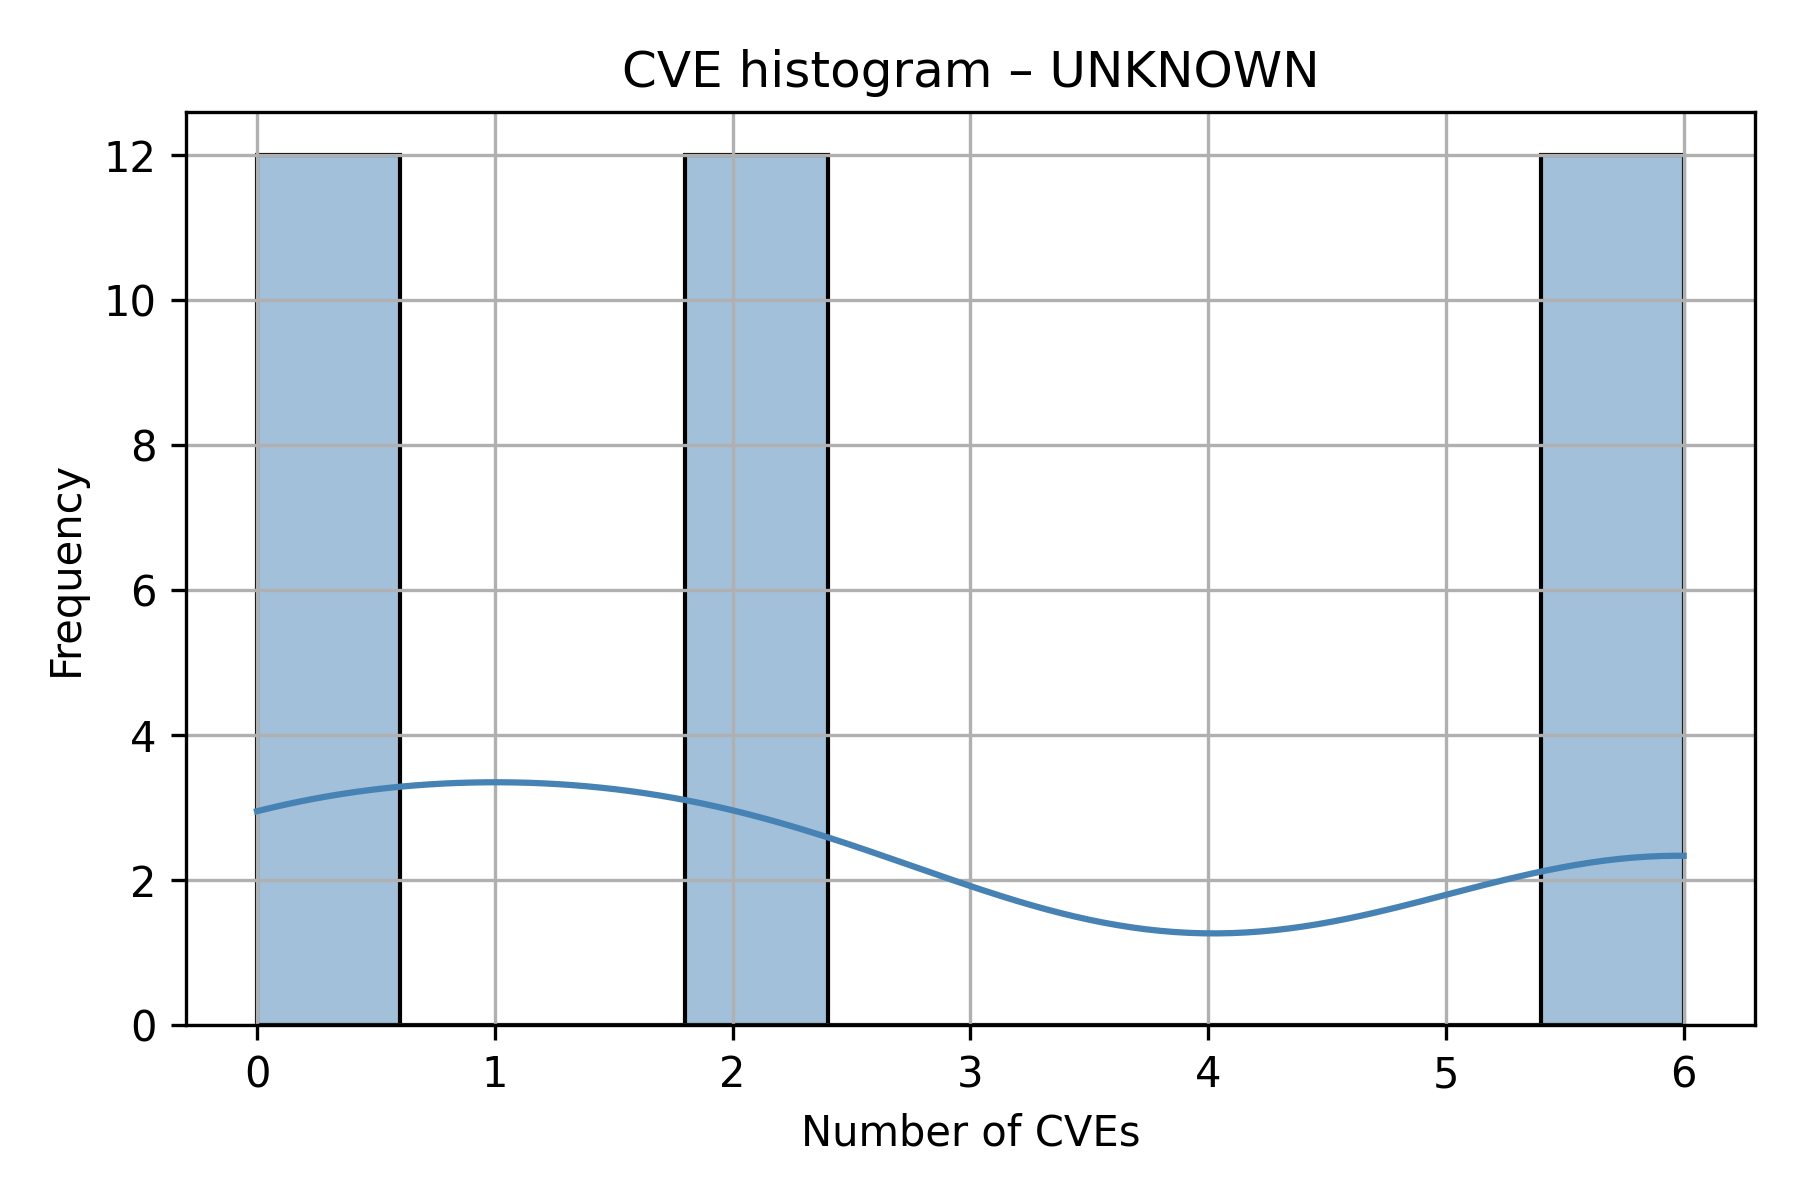
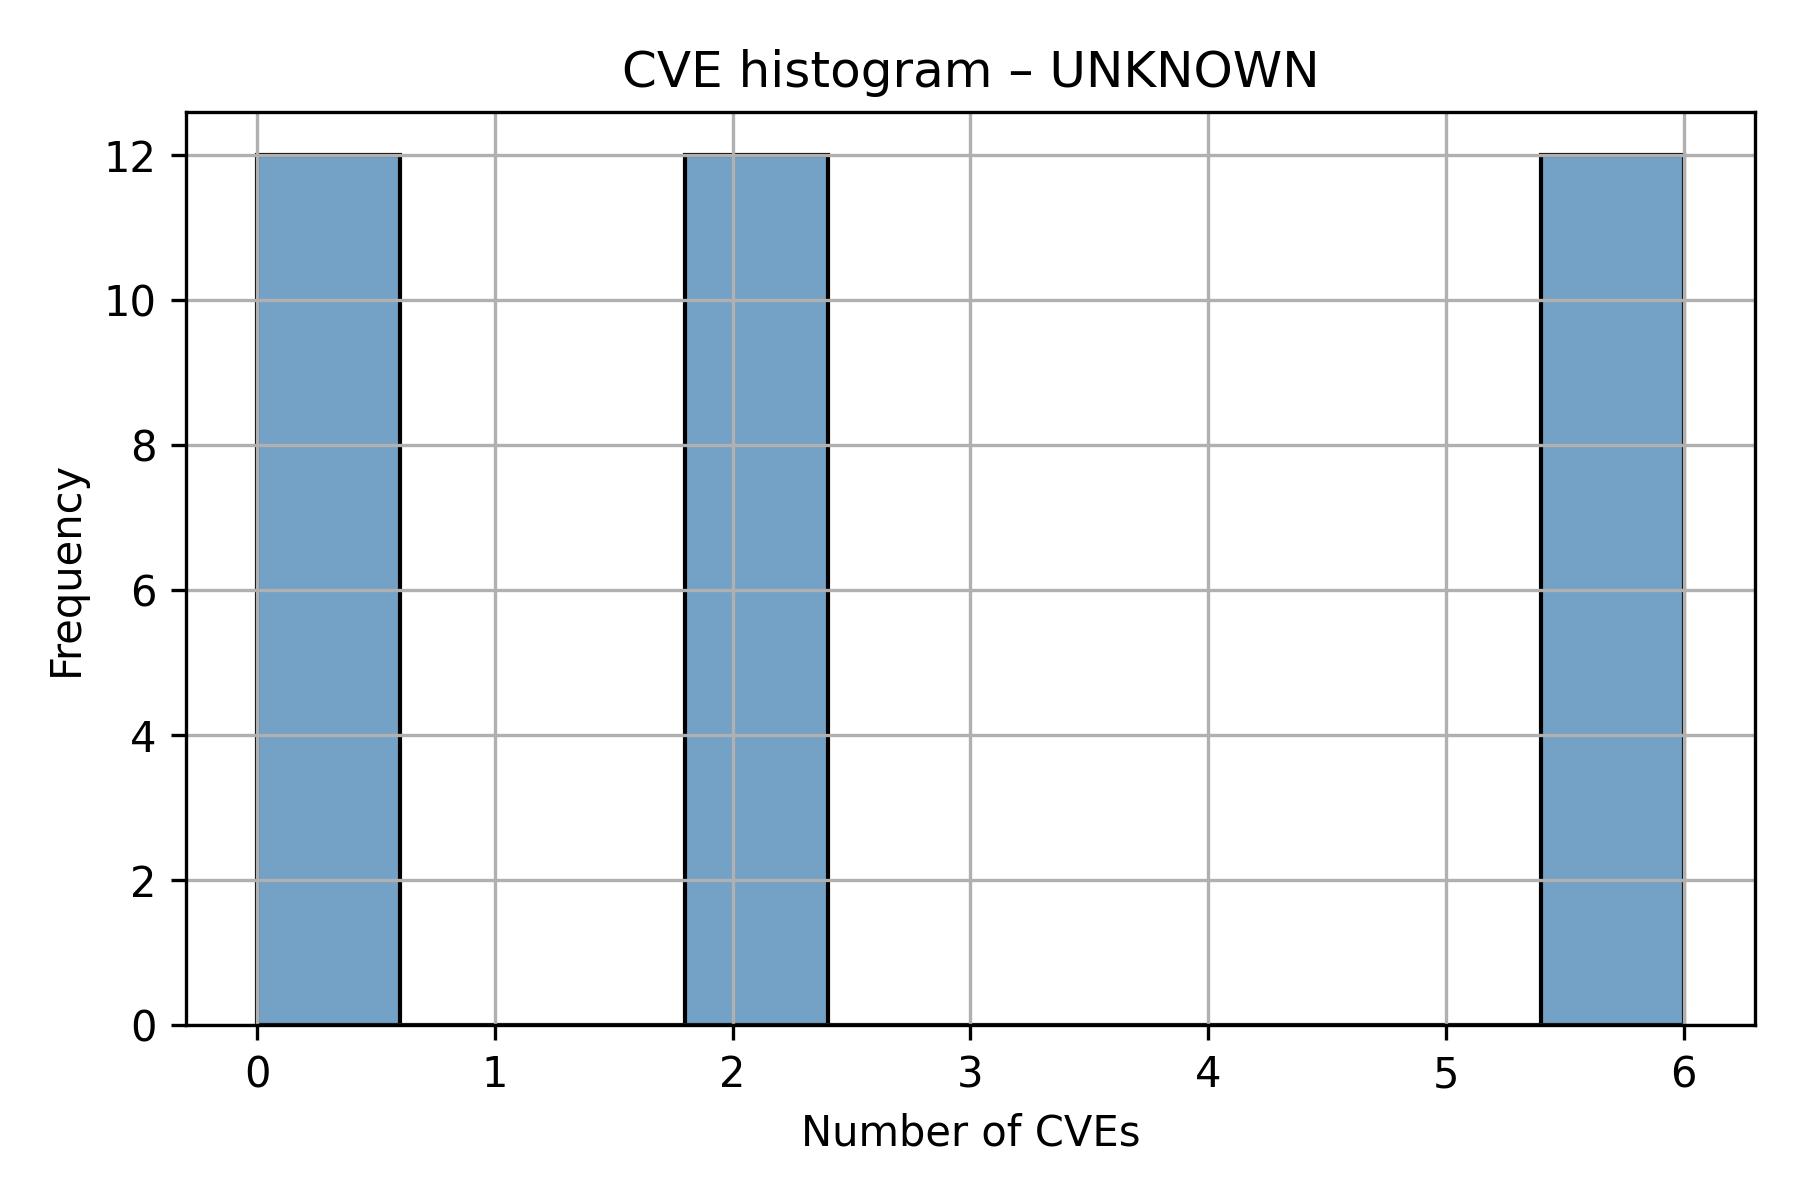
Feature: added usefull JSONs and cleaner charts

diff --git a/MC_simulation.py b/MC_simulation.py
@@ -105,11 +105,13 @@ def main() -> None:
     for p, val in zip([5, 25, 50, 75, 90, 95], percentiles):
         print(f"  {p:>2}%: {val:.2f}")
 
-    # 5. Collection of Exact Real Risk
+# 5. Collection of Estimated Risk and Final Classification
     estimated_risks_dict = {}
     summary_dir = Path("aggregated_summary")
     
-    print("\n🔍 Estimated Risk Classification of Images:")
+    risk_classifications = {} 
+    print("\n🔍 Risk Classification of Images (Relative to Simulated Distribution):")
+    
     for summary_file in summary_dir.rglob("summary.json"):
         with open(summary_file, "r") as f:
             data = json.load(f)
@@ -117,11 +119,32 @@ def main() -> None:
             estimated_risks = data.get("estimated_risk", 0.0)
             estimated_risks_dict[img_name] = estimated_risks
             
-            if estimated_risks < percentiles[0]: tag = "🔵 Extremely Safe"
-            elif estimated_risks < percentiles[3]: tag = "🟡 Moderate/Substantial"
-            elif estimated_risks < percentiles[5]: tag = "🔴 High"
-            else: tag = "❌ Critical"
-            print(f"  {img_name.ljust(20)}: {estimated_risks:.2f} ({tag})")
+            # Implementation of the 5 study categories based on percentiles:
+            # percentiles index: [0]=5%, [1]=25%, [2]=50%, [3]=75%, [4]=90%, [5]=95%
+            
+            if estimated_risks < percentiles[0]:
+                category = "Very low relative risk"
+                tag = "🔵"
+            elif estimated_risks < percentiles[1]:
+                category = "Low relative risk"
+                tag = "🟢"
+            elif estimated_risks < percentiles[3]:
+                category = "Intermediate relative risk"
+                tag = "🟡"
+            elif estimated_risks < percentiles[5]:
+                category = "High relative risk"
+                tag = "🟠"
+            else:
+                category = "Very high or critical relative risk"
+                tag = "🔴"
+            
+            risk_classifications[img_name] = category
+            
+            print(f"  {img_name.ljust(22)}: {estimated_risks:7.2f} ({tag} {category})")
+
+    # Save results to JSON for article support
+    with open("risk_classifications.json", "w", encoding="utf-8") as f:
+        json.dump(risk_classifications, f, indent=4)
 
     # 6. Generation of updated charts
     print("\n📉 Generating final charts...")
@@ -129,6 +152,10 @@ def main() -> None:
     
     Path("Plots").mkdir(exist_ok=True)
     plot_ranking_risks(estimated_risks_dict, output_path="Plots/ranking_exposure_risk.png")
+
+    sorted_risks = dict(sorted(estimated_risks_dict.items(), key=lambda item: item[1], reverse=True))
+    with open("estimated_risks_export.json", "w", encoding="utf-8") as f:
+        json.dump(sorted_risks, f, indent=4)
     
     print("✅ Monte Carlo pipeline successfully completed!")
 

diff --git a/plot_simulated_histograms.py b/plot_simulated_histograms.py
@@ -2,34 +2,50 @@ import matplotlib.pyplot as plt
 import seaborn as sns
 from pathlib import Path
 import numpy as np
+from typing import Dict
 
-def plot_simulated_histograms(samples: dict[str, np.ndarray],
-                                 overall_risk: np.ndarray,
-                                 output_directory: str | Path = "SimulatedPlots") -> None:
+def plot_simulated_histograms(samples: Dict[str, np.ndarray],
+                              overall_risk: np.ndarray,
+                              output_directory: str | Path = "SimulatedPlots",
+                              show_kde: bool = True) -> None:
+    """
+    Gera os histogramas das simulações.
+    O argumento show_kde controla a exibição da linha de densidade (padrão é True).
+    """
+    Path(output_directory).mkdir(parents=True, exist_ok=True)
+    print("\n")
     
-    Path(output_directory).mkdir(exist_ok=True)
-    print(f"\n")
+    sns.set_theme(style="whitegrid")
+
+    # 1. Gráficos individuais por severidade
     for level, values in samples.items():
         plt.figure(figsize=(6, 4))
-        sns.histplot(values, bins=50, kde=True, color="royalblue")
+        
+        # O KDE agora é ligado ou desligado baseado no argumento
+        sns.histplot(values, bins=50, kde=show_kde, color="royalblue", stat="density")
+        
         plt.title(f"Simulated Distribution – {level}")
         plt.xlabel("Number of simulated CVEs")
-        plt.ylabel("Frequency")
-        plt.grid(True)
+        plt.ylabel("Density")
+        plt.grid(True, linestyle='--', alpha=0.6)
         plt.tight_layout()
+        
         path = Path(output_directory) / f"{level}_simulated.png"
         plt.savefig(path, dpi=300)
         plt.close()
         print(f"📊 Saved chart: {path}")
 
-    # Overall Risk Chart
+    # 2. Gráfico do Risco Total
     plt.figure(figsize=(6, 4))
-    sns.histplot(overall_risk, bins=50, kde=True, color="firebrick")
+    
+    sns.histplot(overall_risk, bins=50, kde=show_kde, color="firebrick", stat="density")
+    
     plt.title("Simulated Distribution – Estimated Overall Risk")
     plt.xlabel("Weighted Overall Risk")
-    plt.ylabel("Frequency")
-    plt.grid(True)
+    plt.ylabel("Density")
+    plt.grid(True, linestyle='--', alpha=0.6)
     plt.tight_layout()
+    
     path = Path(output_directory) / "overall_risk_simulated.png"
     plt.savefig(path, dpi=300)
     plt.close()

diff --git a/distributions_vulnerabilities.py b/distributions_vulnerabilities.py
@@ -61,7 +61,7 @@ def distributions_vulnerabilities(json_path: str | Path, plot_dir: str | Path = 
 
         # ----- Save chart ------------------------------------------------
         plt.figure(figsize=(6, 4))
-        sns.histplot(all_cves, bins=10, kde=True, color="steelblue")
+        sns.histplot(all_cves, bins=10, kde=False, color="steelblue")
         plt.title(f"CVE histogram – {risk}")
         plt.xlabel("Number of CVEs")
         plt.ylabel("Frequency")
